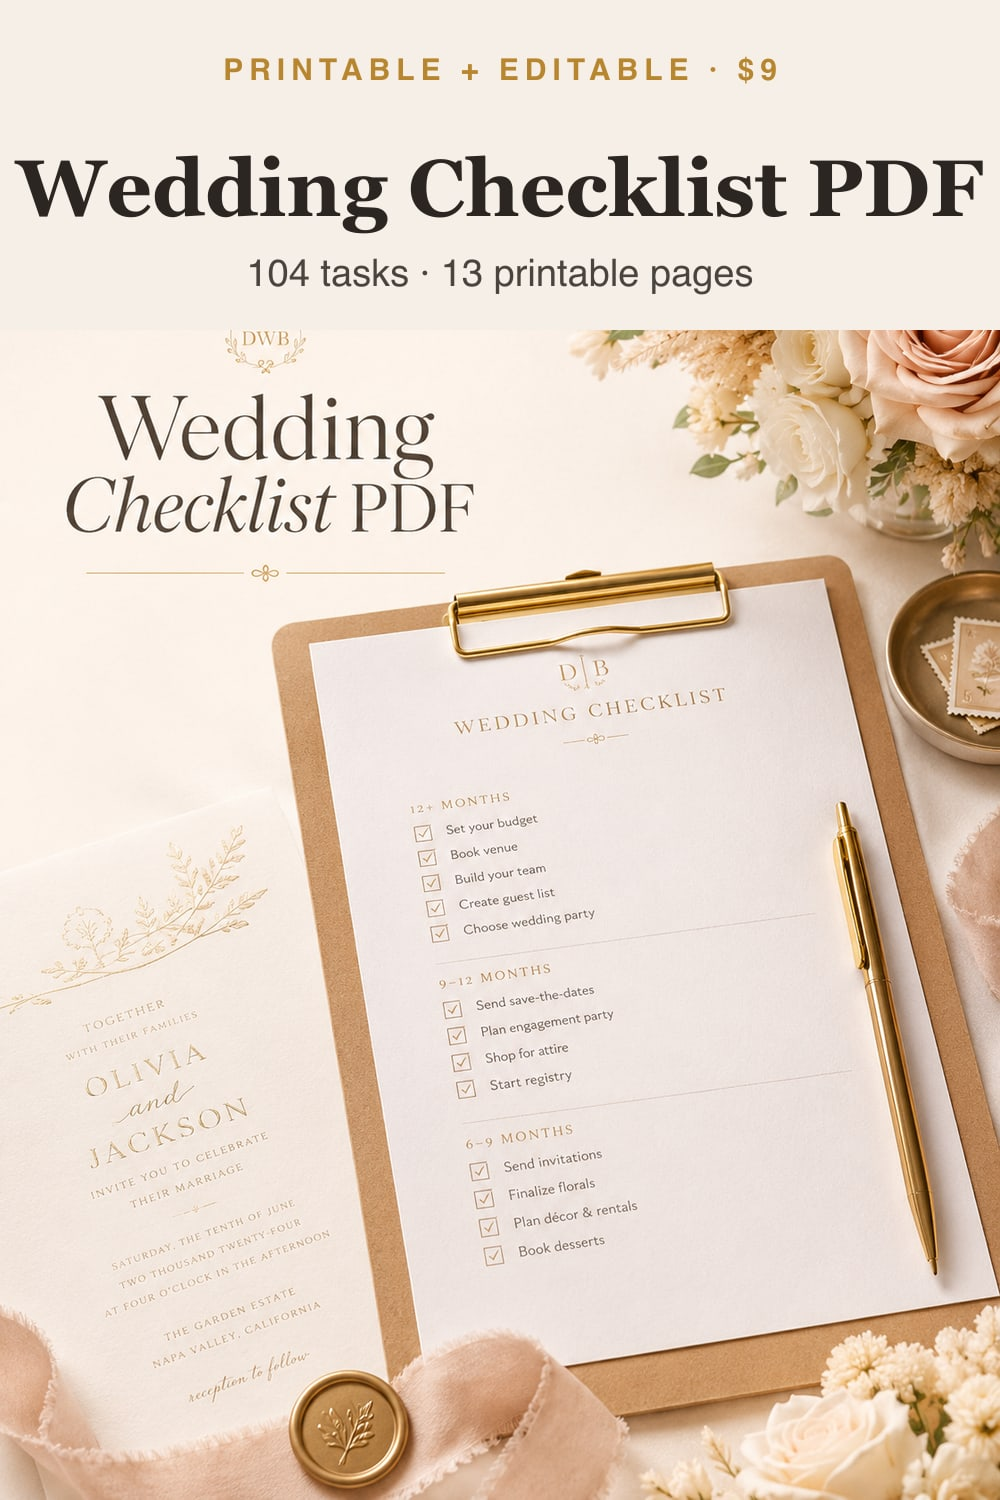
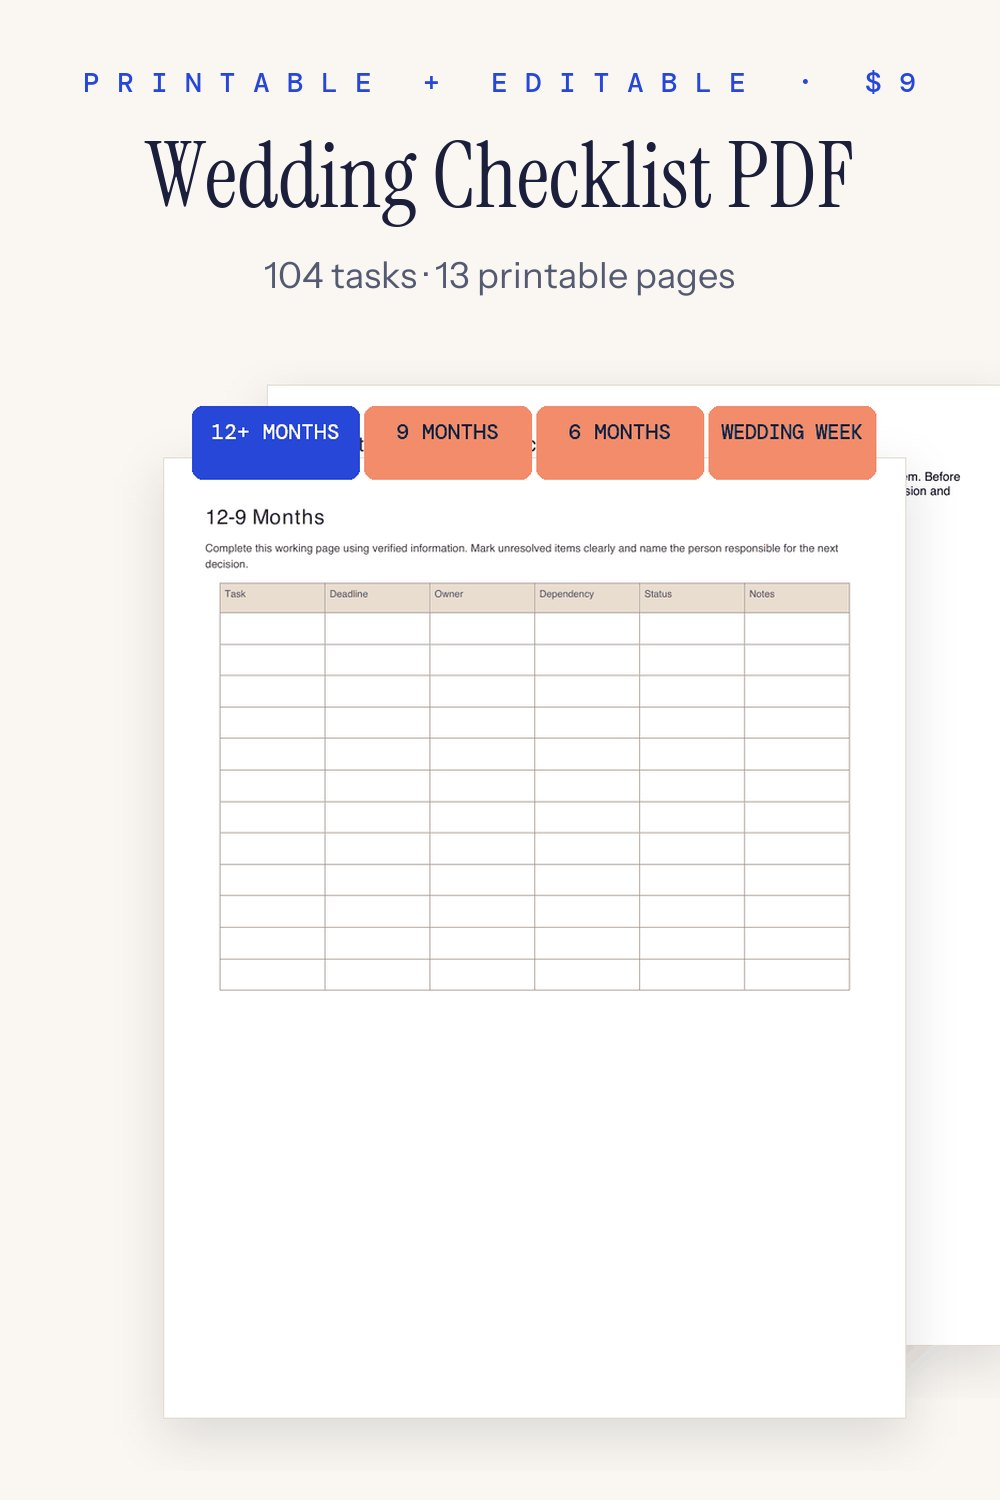
Pinterest pins in the Dream Wedding brand, from the new product mock-ups
The six pin images (public/pinterest/*.jpg) were still the blush-and-gold renders
with Georgia/Helvetica text. They are rebuilt from the new real-file mock-ups with
the brand's type (Instrument Serif titles, DM Mono eyebrows, Instrument Sans
subtitles) on ivory and the soft brand tints. Same slugs, text and 1000x1500 size;
data/pinterest/pin_images.json carries the new byte lengths.

The generator moves from sharp to Pillow (scripts/pinterest/generate_pin_images.py,
same npm script): sharp's SVG text only reaches installed system fonts, so the brand
faces could never render. Portrait mock-ups lose their caption block in a pin, so
the real pages fill it.

Claude-Session: https://claude.ai/code/session_01CJ98gU8kLeDVG5Pr74KCyK

diff --git a/lib/pinfeed.ts b/lib/pinfeed.ts
@@ -10,7 +10,7 @@ import { chicagoDate, dueVariants, type PinQueue, type PinVariant } from '@/lib/
 // Canonical URL: https://weddingchecklistpdf.com/pinfeed.xml (/pinfeed answers too).
 // Every link is a product or guide PAGE on this host, never a checkout URL, and
 // carries the pinfeed UTM params. Every image is a committed 1000x1500 pin from
-// scripts/pinterest/generate_pin_images.mjs. Guarded by tests/unit/pinfeed.test.ts
+// scripts/pinterest/generate_pin_images.py. Guarded by tests/unit/pinfeed.test.ts
 // and, against the built site, scripts/validators/validate_pinterest.mjs.
 //
 // Daily drip (owner-approved 16 Oct 2026): besides the six launch items below, the

diff --git a/scripts/pinterest/generate_pin_images.py b/scripts/pinterest/generate_pin_images.py
@@ -1,0 +1,104 @@
+#!/usr/bin/env python3
+"""Generates the 1000x1500 (2:3) Pinterest pin images for weddingchecklistpdf.com's
+/pinfeed.xml from the site's own product art, in the Dream Wedding design system.
+
+Each pin is a text panel (Instrument Serif title, DM Mono eyebrow, Instrument Sans
+subtitle, on ivory or the soft brand tints) over the real product mock-ups that
+scripts/brand/generate_product_mockups.py makes from the released files. No people,
+no stock photos, no AI generation, no blush/sage/gold (design system, 6 Nov 2026).
+
+Replaces generate_pin_images.mjs: sharp's SVG text could only reach installed system
+fonts, so the brand faces never rendered. Same slugs, same text, same outputs:
+public/pinterest/<slug>.jpg and data/pinterest/pin_images.json (byte sizes for the
+feed's <enclosure length>, because the route runs in a Worker with no fs).
+
+Run: DW_FONT_DIR=/path/to/fonts npm run pinterest:images
+"""
+import io, json, os, sys
+from PIL import Image, ImageDraw, ImageFont, ImageOps
+
+ROOT = os.path.dirname(os.path.dirname(os.path.dirname(os.path.abspath(__file__))))
+PUB = os.path.join(ROOT, 'public')
+OUT = os.path.join(PUB, 'pinterest')
+MANIFEST = os.path.join(ROOT, 'data', 'pinterest', 'pin_images.json')
+FONT_DIR = os.environ.get('DW_FONT_DIR', '')
+W, H = 1000, 1500
+IVORY, MIDNIGHT, MUTED, BLUE = '#FAF7F2', '#1B1F3B', '#555A73', '#2747D9'
+BLUE_SOFT, CORAL_SOFT = '#E8ECFC', '#FDE9E1'
+
+def font(name, size, variation=None):
+    path = os.path.join(FONT_DIR, name)
+    if not os.path.exists(path):
+        sys.exit(f'generate_pin_images: font missing: {path} (set DW_FONT_DIR to Instrument Serif, Instrument Sans and DM Mono)')
+    f = ImageFont.truetype(path, size)
+    if variation:
+        try: f.set_variation_by_name(variation)
+        except Exception: pass
+    return f
+
+def fit(rel, w, h, anchor):
+    """Cover-fit to w x h. A portrait mock-up loses its caption block first (the pin's
+    own panel carries the words), so the real pages fill the pin; a landscape one is
+    centred on its page stack, which sits on the right."""
+    img = Image.open(os.path.join(PUB, rel)).convert('RGB')
+    if img.height > img.width:
+        img = img.crop((0, int(img.height * 0.24), img.width, img.height))
+        centering = {'north': (0.5, 0.0), 'south': (0.5, 1.0)}.get(anchor, (0.5, 0.5))
+    else:
+        centering = (0.78, 0.5) if w < img.width * h / img.height else (0.5, 0.5)
+    return ImageOps.fit(img, (w, h), Image.LANCZOS, centering=centering)
+
+def panel(height, bg, title, subtitle, eyebrow):
+    img = Image.new('RGB', (W, height), bg); d = ImageDraw.Draw(img)
+    lines = title.split('\n'); size = 84 if len(lines) > 1 else 90
+    y = 70
+    if eyebrow:
+        f = font('DMMono-Medium.ttf', 28)
+        spaced = ' '.join(eyebrow)  # letter-spacing for a mono label
+        d.text((W / 2, y), spaced, font=f, fill=BLUE, anchor='mt'); y += 70
+    f = font('InstrumentSerif-Regular.ttf', size)
+    for line in lines:
+        d.text((W / 2, y), line, font=f, fill=MIDNIGHT, anchor='mt'); y += int(size * 1.08)
+    if subtitle:
+        d.text((W / 2, y + 24), subtitle, font=font('InstrumentSans.ttf', 36), fill=MUTED, anchor='mt')
+    return img
+
+def card_pin(slug, card, panel_height, bg, title, subtitle, eyebrow):
+    pin = Image.new('RGB', (W, H), bg)
+    pin.paste(panel(panel_height, bg, title, subtitle, eyebrow), (0, 0))
+    pin.paste(fit(card, W, H - panel_height, 'south'), (0, panel_height))
+    return slug, pin
+
+def bundle_pin():
+    bg = IVORY; ph = 470; hero_h = round(W * 941 / 1672); row_top = ph + hero_h + 20
+    cw = 320; ch = H - row_top - 20
+    pin = Image.new('RGB', (W, H), bg)
+    pin.paste(panel(ph, bg, 'Wedding Planning\nBundle', 'Checklist · Budget · Timeline · Seating chart', '4 WEDDING PLANNERS · $39'), (0, 0))
+    pin.paste(fit('product-images/merch/operations-suite-hero.png', W, hero_h, 'centre'), (0, ph))
+    for i, pid in enumerate(['budget-spreadsheet', 'timeline-template', 'seating-chart-maker']):
+        pin.paste(fit(f'product-images/merch/{pid}-card.png', cw, ch, 'north'), (10 + i * (cw + 15), row_top))
+    return 'wedding-planning-bundle', pin
+
+def main():
+    pins = [
+        card_pin('wedding-checklist-pdf', 'product-images/merch/checklist-pdf-card.png', 360, IVORY, 'Wedding Checklist PDF', '104 tasks · 13 printable pages', 'PRINTABLE + EDITABLE · $9'),
+        card_pin('printable-wedding-checklist', 'product-images/checklist-pdf-hero.png', 360, BLUE_SOFT, 'Printable Wedding Checklist', 'From 12+ months out to wedding week', 'MONTH-BY-MONTH PLANNER'),
+        card_pin('elopement-planning-checklist', 'product-images/merch/checklist-pdf-card.png', 430, CORAL_SOFT, 'Elopement\nPlanning Checklist', 'License, witnesses, permits, travel', 'FREE CHECKLIST'),
+        card_pin('courthouse-wedding-checklist', 'product-images/checklist-pdf-hero.png', 430, BLUE_SOFT, 'Courthouse\nWedding Checklist', 'Appointment, license, ID, witnesses', 'FREE CHECKLIST'),
+        card_pin('destination-wedding-checklist', 'product-images/merch/checklist-pdf-card.png', 430, IVORY, 'Destination\nWedding Checklist', 'Travel, lodging, documents, vendors', 'FREE CHECKLIST'),
+        bundle_pin(),
+    ]
+    os.makedirs(OUT, exist_ok=True)
+    manifest = {}
+    for slug, img in pins:
+        if img.size != (W, H): sys.exit(f'{slug}: {img.size}, expected {W}x{H}')
+        buf = io.BytesIO(); img.save(buf, 'JPEG', quality=86, optimize=True, progressive=True); raw = buf.getvalue()
+        rel = f'/pinterest/{slug}.jpg'
+        open(os.path.join(PUB, rel.lstrip('/')), 'wb').write(raw)
+        manifest[slug] = {'path': rel, 'type': 'image/jpeg', 'width': W, 'height': H, 'length': len(raw)}
+    os.makedirs(os.path.dirname(MANIFEST), exist_ok=True)
+    open(MANIFEST, 'w').write(json.dumps(manifest, indent=2) + '\n')
+    print(f'pinterest: wrote {len(pins)} pins ({W}x{H}) to public/pinterest/')
+
+if __name__ == '__main__':
+    main()
